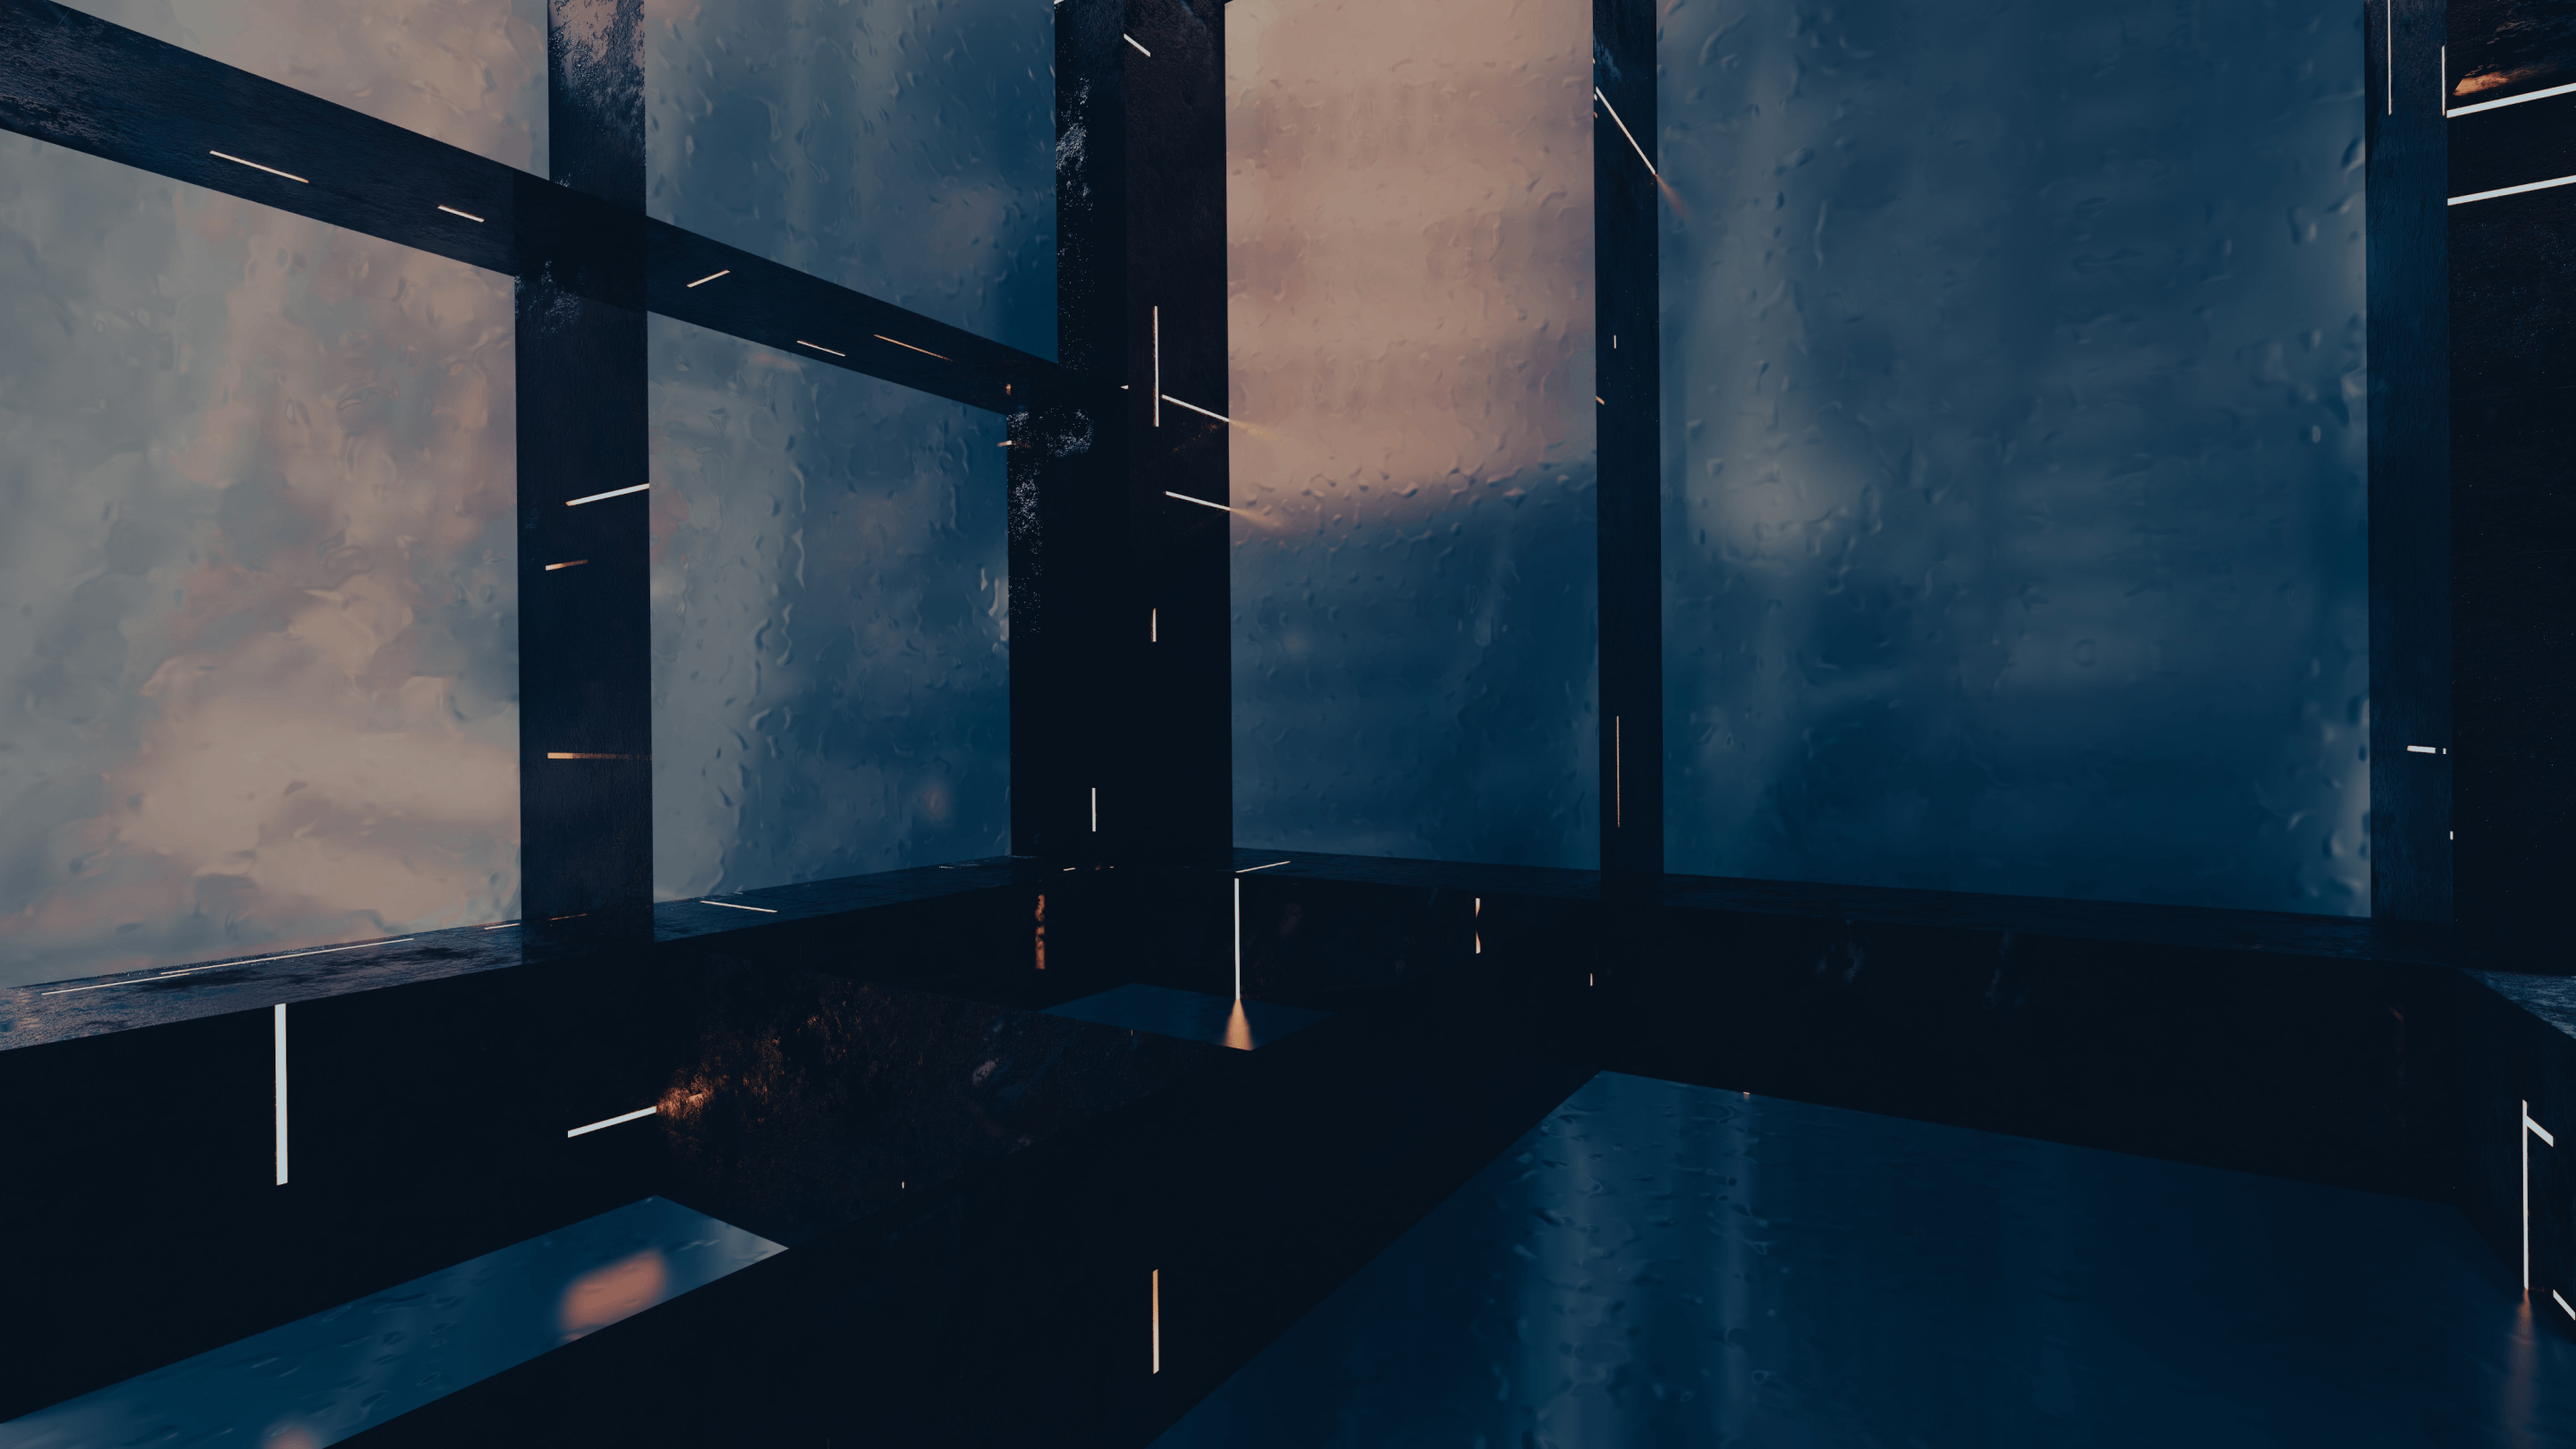
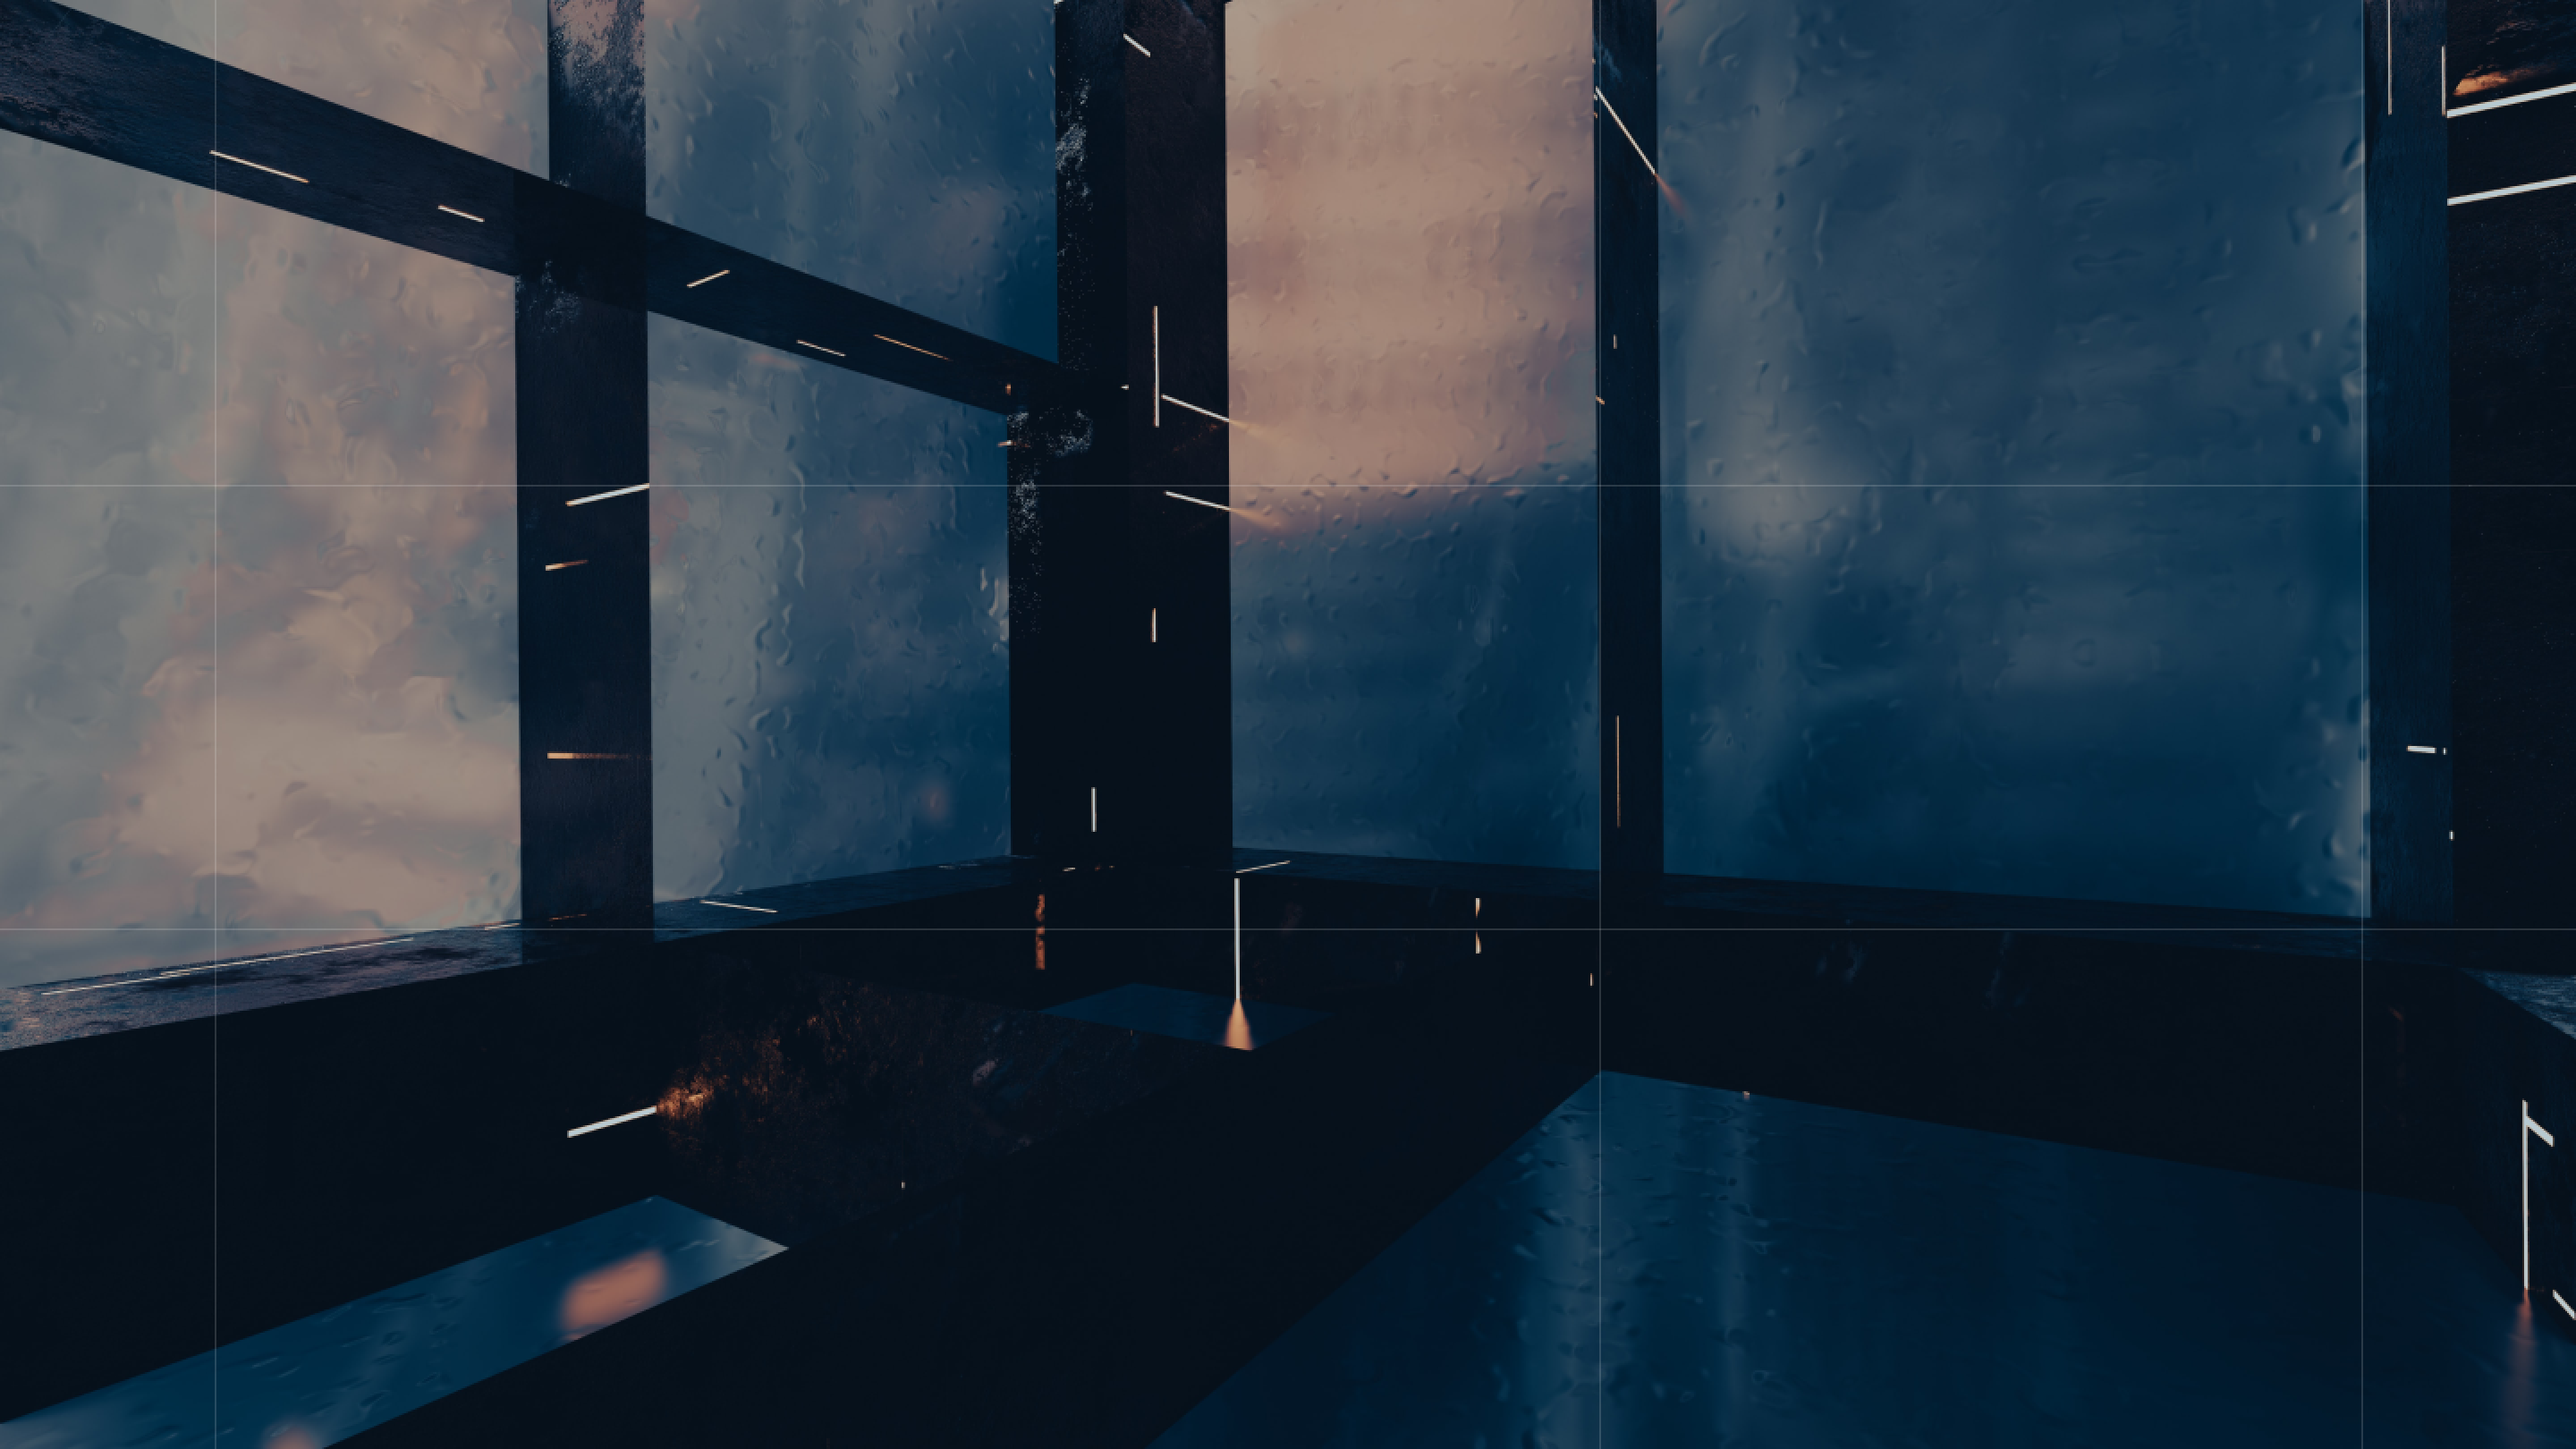
Added line backgrounds

Changed region(s): [[0.0938, 0.7099, 0.125, 0.8025]]

diff --git a/src/components/NapaSocietySection/NapaSocietySection.module.scss b/src/components/NapaSocietySection/NapaSocietySection.module.scss
@@ -33,6 +33,7 @@
     animation: glow 1s ease-in-out infinite alternate;
     line-height: 1.1em;
     margin-bottom: 0.3em;
+    margin-top: 0.4em;
   }
   @keyframes glow {
     from {
@@ -84,6 +85,7 @@
     color: $white;
     line-height: 2.1rem;
     margin-bottom: 0;
+    margin-top: 13.4rem;
   }
   .sliderSlashtext {
 
@@ -97,12 +99,14 @@
     position: relative;
     bottom: -27px;
     color: transparent;
+    margin-top: 13.4rem;
   }
   .sliderArrows{
     display: flex;
     width: 60px;
     justify-content: space-between;
     margin-top: 54px;
+    margin-top: 15.4rem;
   }
   .sliderArrows div img{
     opacity: 0.7;
@@ -121,7 +125,7 @@
   }
 }
   .sliderContainer {
-    padding-bottom: 3rem;
+    padding-bottom: 1rem;
     @include flex-row-between;
   }
   .innerSocietyContainer {

diff --git a/src/components/NftMarketplaceSection/NftMarketplaceSection.module.scss b/src/components/NftMarketplaceSection/NftMarketplaceSection.module.scss
@@ -235,7 +235,7 @@
 }
 
   @media (min-width: 1280px) {
-    background-image: url('/assets/images/marketplace-background-nolines.png');
+    background-image: url('/assets/images/marketplace-background.png');
     .nft {
       padding-top: 4rem;
       max-width: 100%;
